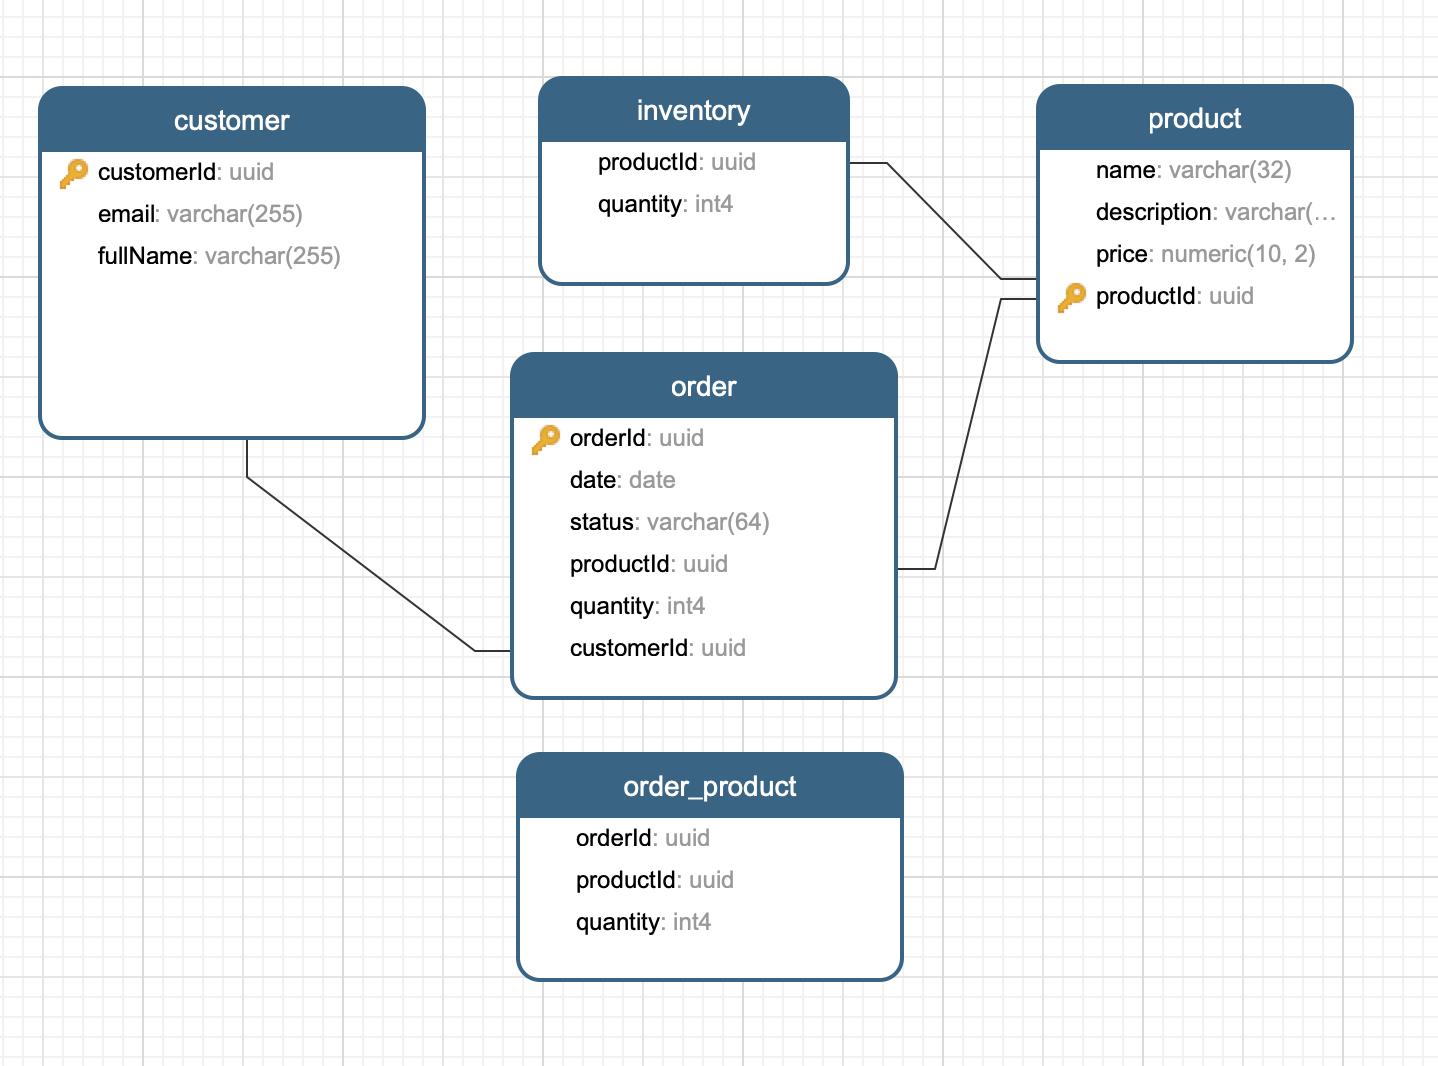
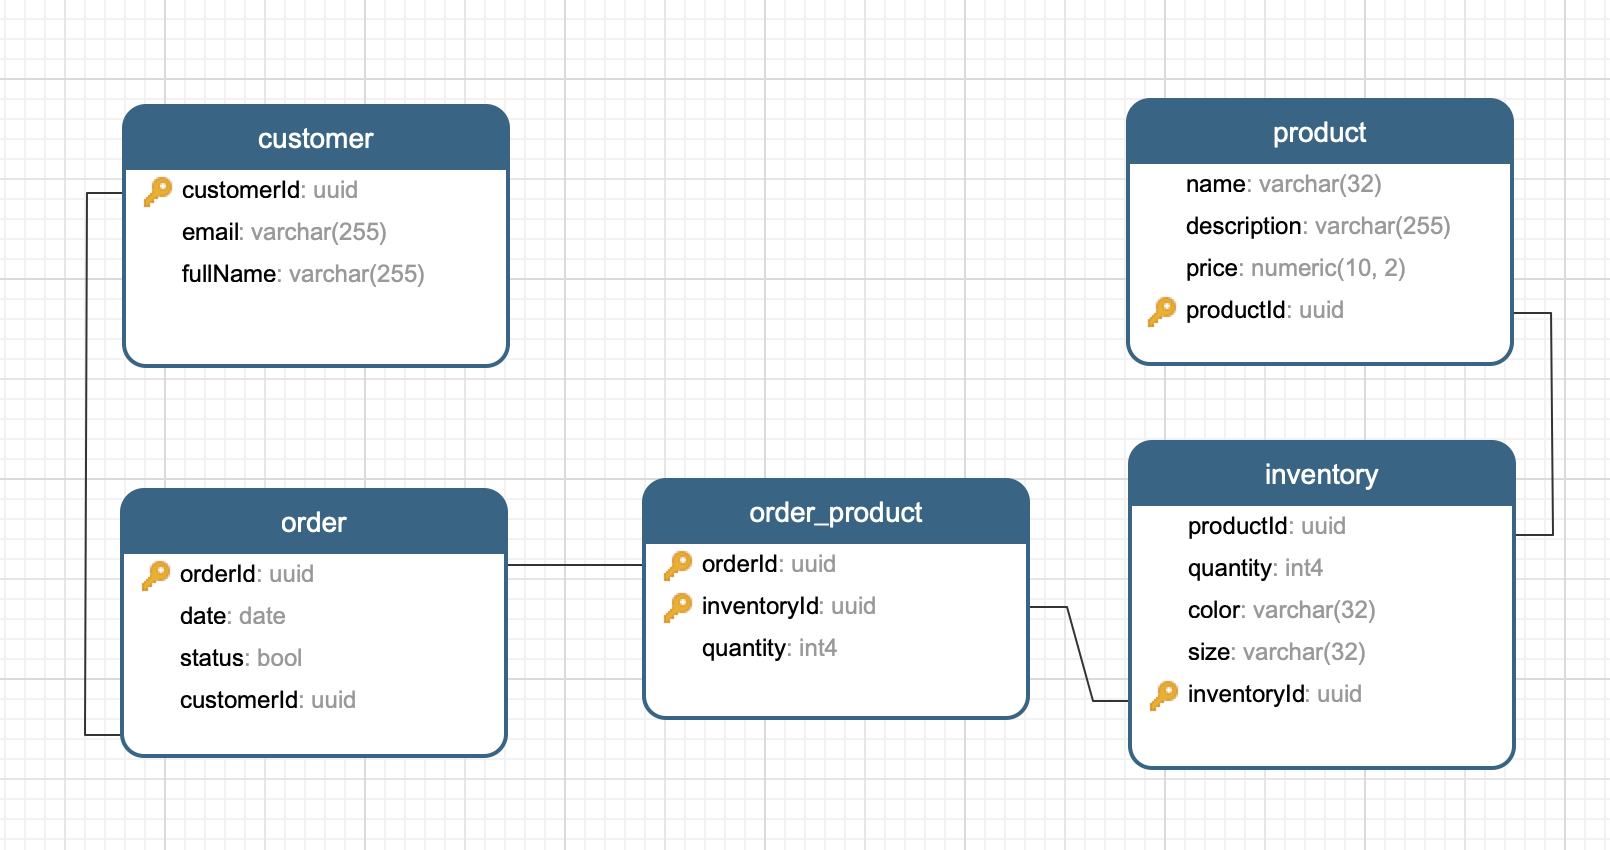
refactor Inventories\' endpoints

diff --git a/src/dataModels/InventoriesDataModel.ts b/src/dataModels/InventoriesDataModel.ts
@@ -1,12 +1,23 @@
 import { sequelize } from './../config/db';
 import { Sequelize } from 'sequelize';
+import BaseError from './../utils/BaseError';
+import HttpStatusCode  from './../models/HttpStatusCode';
 
 class InventoriesDataModel {
     public inventory = sequelize.define('inventory', {
         quantity: {
             type: Sequelize.INTEGER
         },
+        color: {
+            type: Sequelize.STRING
+        },
+        size: {
+            type: Sequelize.STRING
+        },
         productId: {
+            type: Sequelize.UUID,
+        },
+        inventoryId: {
             type: Sequelize.UUID,
             primaryKey: true,
         }
@@ -15,41 +26,71 @@ class InventoriesDataModel {
         tableName: 'inventory'
     });
 
-    async read () {
-        //TODO expand it to return the full product details
-        return await this.inventory.findAll();
+    async read (productId) {
+        if(!! productId){
+            return await this.inventory.findAll({ where: {productId}});
+        }
+        else
+        {
+            return await this.inventory.findAll();
+        }
     }
     
-    async readById (productId:string) {
+    async readById (inventoryId:string) {
         //TODO expand it to return the full product details
         return await this.inventory.findOne({
             where: {
-                productId: productId
+                inventoryId: inventoryId
             }
         });
     }
     
-    async create (productId :string, quantity: number ) {
-        return await this.inventory.create({ productId, quantity});
+    async create (inventoryId :string, productId :string, color :string, size:string, quantity: number ) {
+        return await this.inventory.create({ inventoryId, productId, color, size, quantity});
     }
 
-    async update (productId :string, quantity: number )  {
-        return await this.inventory.update(
-            { quantity }, 
-            {
-                where: {
-                    productId: productId
+    async update (inventoryId :string, productId :string, color :string, size:string, quantity: number ) {
+        try{
+                return await this.inventory.update(
+                { color, size, quantity}, 
+                {
+                    where: {
+                        inventoryId: inventoryId,
+                        productId: productId
+                    }
                 }
+            );
+        }
+        catch(e){
+            if( e.name == "SequelizeForeignKeyConstraintError")
+            {
+                throw new BaseError(HttpStatusCode.CONFLICT);
             }
-        );
+            else{
+                throw new BaseError(HttpStatusCode.INTERNAL_SERVER);
+            }
+        }
     }
 
-    async delete (productId:string) {
-        return await this.product.destroy({
-            where: {
-                productId: productId
+    async delete (inventoryId:string) {
+        try{
+            return await this.inventory.destroy({
+                where: {
+                    inventoryId: inventoryId
+                }
+            });
+        }
+        catch(e){
+            console.log(e);
+            console.log('     ------------------------    e');
+            if( e.name == "SequelizeForeignKeyConstraintError")
+            {
+                throw new BaseError(HttpStatusCode.CONFLICT);
             }
-        });
+            else{
+                throw new BaseError(HttpStatusCode.INTERNAL_SERVER);
+            }
+        }
     }
 };
 

diff --git a/src/controllers/Inventories.ts b/src/controllers/Inventories.ts
@@ -14,7 +14,8 @@ class Inventories {
 
     async read (req: Request, res: Response) {
         try {
-            return res.json(await this.inventoriesDataModel.read());
+            const { productId } = req.query;
+            return res.json(await this.inventoriesDataModel.read(productId));
         }
         catch (e) {
             throw new BaseError(HttpStatusCode.INTERNAL_SERVER);
@@ -34,9 +35,9 @@ class Inventories {
     async create (req: Request, res: Response) {
         try {
             //TODO check that productId exist in DB first
-            const { quantity } = req.body;
-            const productId = req.params.id;
-            const inventory: Inventory = await this.inventoriesDataModel.create( productId, quantity);
+            const { productId, color, size, quantity } = req.body;
+            const inventoryId = uuid();
+            const inventory: Inventory = await this.inventoriesDataModel.create( inventoryId, productId, color, size, quantity);
             return res.json(inventory);
         }
         catch (e) {
@@ -45,13 +46,12 @@ class Inventories {
     }
 
     async update (req: Request, res: Response) {
-        const { quantity } = req.body;
-        const productId = req.params.id;
-        const updatedCount = await this.inventoriesDataModel.update(productId, quantity );
+        const { productId, color, size, quantity } = req.body;
+        const inventoryId = req.params.id;
+        const updatedCount = await this.inventoriesDataModel.update( inventoryId, productId, color, size, quantity);
         if (updatedCount[0] === 1) {
-            return res.json({ productId, quantity });
+            return res.json({ inventoryId, productId, color, size, quantity });
         }
-        //TODO need to handle cannot update the record
         else {
             throw new BaseError(HttpStatusCode.NOT_FOUND);
         }
@@ -63,7 +63,6 @@ class Inventories {
         if (deletedCount === 1) {
             return res.json({id});
         }
-        //TODO need to handle cannot delete the record
         else {
             throw new BaseError(HttpStatusCode.NOT_FOUND);
         }

diff --git a/src/dataModels/ProductsDataModel.ts b/src/dataModels/ProductsDataModel.ts
@@ -1,5 +1,7 @@
 import { sequelize } from './../config/db';
 import { Sequelize } from 'sequelize';
+import BaseError from './../utils/BaseError';
+import HttpStatusCode  from './../models/HttpStatusCode';
 
 class ProductsDataModel {
     public product = sequelize.define('product', {
@@ -38,22 +40,44 @@ class ProductsDataModel {
     }
 
     async update (productId :string, name: string, description: string, price: number ) {
-        return await this.product.update(
-            { name, description, price }, 
-            {
-                where: {
-                    productId: productId
+        try{
+            return await this.product.update(
+                { name, description, price }, 
+                {
+                    where: {
+                        productId: productId
+                    }
                 }
+            );
+        }
+        catch(e){
+            if( e.name == "SequelizeForeignKeyConstraintError")
+            {
+                throw new BaseError(HttpStatusCode.CONFLICT);
             }
-        );
+            else{
+                throw new BaseError(HttpStatusCode.INTERNAL_SERVER);
+            }
+        }
     }
 
     async delete (productId:string) {
-        return await this.product.destroy({
-            where: {
-                productId: productId
+        try{
+            return await this.product.destroy({
+                where: {
+                    productId: productId
+                }
+            });
+        }
+        catch(e){
+            if( e.name == "SequelizeForeignKeyConstraintError")
+            {
+                throw new BaseError(HttpStatusCode.CONFLICT);
             }
-        });
+            else{
+                throw new BaseError(HttpStatusCode.INTERNAL_SERVER);
+            }
+        }
     }
 };
 

diff --git a/src/routes/InventoriesRoutes.ts b/src/routes/InventoriesRoutes.ts
@@ -12,12 +12,19 @@ class InventoriesRoutes {
 
         const idSchema = Joi.string().guid().required();
         const inventorySchema = Joi.object().required().keys({
-            quantity: Joi.number().required(),
+            productId: Joi.string().guid().required(),
+            color: Joi.string().required(),
+            size: Joi.string().required(),
+            quantity: Joi.number().required()
         });
 
         //read all
         this.router.get('/', async (req, res, next) => {
             try{
+                const { error } = Joi.string().guid().validate(req.query.productId);
+                if (error) {
+                    throw error;
+                }
                 await inventories.read(req, res);
             } catch (err){
                 next(err);
@@ -38,15 +45,11 @@ class InventoriesRoutes {
         });
 
         //create
-        this.router.post('/:id', async (req, res, next) => {
+        this.router.post('/', async (req, res, next) => {
             try {
-                const inventoryValidate = inventorySchema.validate(req.body);
-                if (inventoryValidate.error) {
-                    throw inventoryValidate.error;
-                }
-                const idValidate = idSchema.validate(req.params.id);
-                if (idValidate.error) {
-                    throw idValidate.error;
+                const {error} = inventorySchema.validate(req.body);
+                if (error) {
+                    throw error;
                 }
                 await inventories.create(req, res);
             } catch (err){

diff --git a/src/dataModels/CustomersDataModel.ts b/src/dataModels/CustomersDataModel.ts
@@ -1,5 +1,7 @@
 import { sequelize } from './../config/db';
 import { Sequelize } from 'sequelize';
+import BaseError from './../utils/BaseError';
+import HttpStatusCode  from './../models/HttpStatusCode';
 
 class CustomersDataModel {
     public customer = sequelize.define('customer', {
@@ -49,11 +51,22 @@ class CustomersDataModel {
     }
 
     async delete (customerId:string) {
-        return await this.customer.destroy({
-            where: {
-                customerId: customerId
+        try{
+            return await this.customer.destroy({
+                where: {
+                    customerId: customerId
+                }
+            });
+        }
+        catch(e){
+            if( e.name == "SequelizeForeignKeyConstraintError")
+            {
+                throw new BaseError(HttpStatusCode.CONFLICT);
             }
-        });
+            else{
+                throw new BaseError(HttpStatusCode.INTERNAL_SERVER);
+            }
+        }
     }
 };
 

diff --git a/src/utils/BaseError.ts b/src/utils/BaseError.ts
@@ -16,6 +16,11 @@ class BaseError extends Error {
                 this.httpCode = httpCode;
                 break; 
             } 
+            case HttpStatusCode.CONFLICT: { 
+                super('CONFLICT');
+                this.httpCode = httpCode;
+                break; 
+            } 
             case HttpStatusCode.INTERNAL_SERVER: { 
                 super('INTERNAL SERVER');
                 this.httpCode = httpCode;

diff --git a/src/router.ts b/src/router.ts
@@ -19,6 +19,10 @@ class Router {
         const customersRoutes = new CustomersRoutes(server);
         server.use('/customers', customersRoutes.router );
 
+        // Add read order end point
+        //TODO update sql files
+        //TODO add orders end points
+
         server.use((err, req, res, next) => {
             handleError(err, res);
         });  

diff --git a/src/controllers/Customers.ts b/src/controllers/Customers.ts
@@ -62,7 +62,6 @@ class Customers {
         if (deletedCount === 1) {
             return res.json({id});
         }
-        //TODO need to handle cannot delete the record
         else {
             throw new BaseError(HttpStatusCode.NOT_FOUND);
         }

diff --git a/src/controllers/Products.ts b/src/controllers/Products.ts
@@ -62,7 +62,6 @@ class Products {
         if (deletedCount === 1) {
             return res.json({id});
         }
-        //TODO need to handle cannot delete the record
         else {
             throw new BaseError(HttpStatusCode.NOT_FOUND);
         }

diff --git a/src/models/Order.ts b/src/models/Order.ts
@@ -3,9 +3,7 @@ import Status from './Status'
 type Order = {
     customerId: String,
     orderId: String,
-    productId: String,
     date: Date,
-    status: Status,
-    quantity : Number,
+    status: Status
 };
 export default Order;

diff --git a/src/models/HttpStatusCode.ts b/src/models/HttpStatusCode.ts
@@ -2,6 +2,7 @@ enum HttpStatusCode {
     OK = 200,
     BAD_REQUEST = 400,
     NOT_FOUND = 404,
+    CONFLICT = 409,
     INTERNAL_SERVER = 500,
 }
 export default HttpStatusCode;

diff --git a/src/models/Inventory.ts b/src/models/Inventory.ts
@@ -1,5 +1,8 @@
 type Inventory ={
+    inventoryId?: String,
     productId: String,
+    color: String,
+    size: String,
     quantity: number
 }
 export default Inventory;
